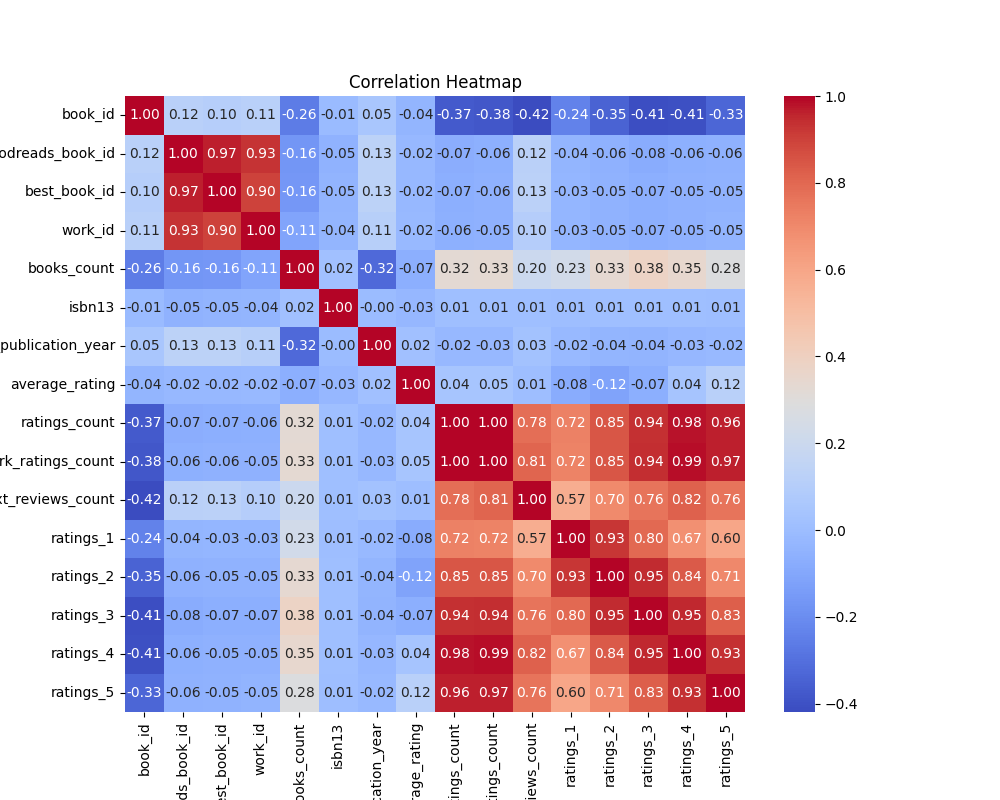
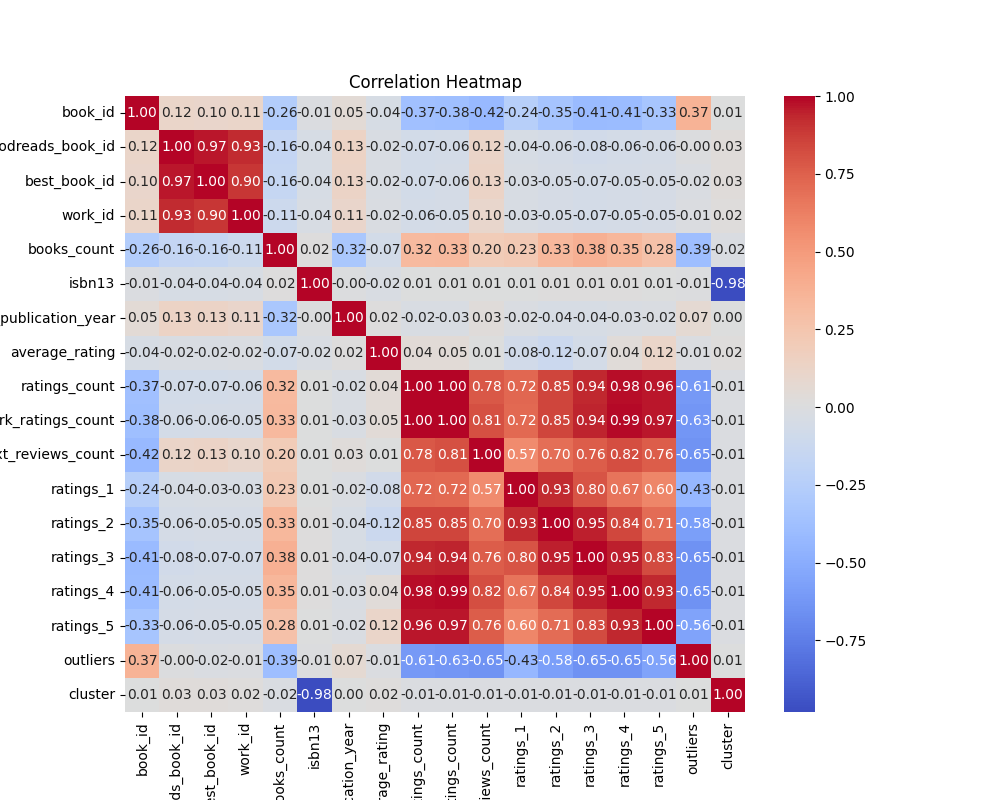
included more analysis

diff --git a/autolysis.py b/autolysis.py
@@ -11,6 +11,8 @@
 #   "dotenv",
 #   "requests",
 #   "chardet",
+#   "sklearn",
+#   "statsmodels"
 # ]
 # ///
 import os
@@ -23,6 +25,12 @@ import openai
 from dotenv import load_dotenv
 import requests
 import chardet
+from sklearn.ensemble import IsolationForest
+from sklearn.cluster import KMeans
+from statsmodels.tsa.seasonal import seasonal_decompose
+from sklearn.decomposition import PCA
+from sklearn.impute import SimpleImputer
+from sklearn.cluster import KMeans
 
 def load_data(file_path):
     try:
@@ -68,6 +76,30 @@ def select_best_columns(data, target=None, max_columns=3):
 
     return selected_columns
 
+def detect_outliers(data):
+    isolation_forest = IsolationForest(contamination=0.05)
+    data['outliers'] = isolation_forest.fit_predict(data.select_dtypes(include=[float, int]))
+    outliers = data[data['outliers'] == -1]
+    return outliers
+
+def perform_clustering(data):
+    kmeans = KMeans(n_clusters=3, random_state=42)
+    data['cluster'] = kmeans.fit_predict(data.select_dtypes(include=[float, int]))
+    cluster_summary_text = (
+    f"Cluster 0: {len(data[data['cluster'] == 0])} points, centered at {kmeans.cluster_centers_[0]}.\n"
+    f"Cluster 1: {len(data[data['cluster'] == 1])} points, centered at {kmeans.cluster_centers_[1]}."
+    )
+    return cluster_summary_text
+
+def perform_timeseries(data):
+    decomposition = seasonal_decompose(data['time_series_column'], model='additive', period=12)
+    decomposition.plot()
+
+def perform_pca(data):
+    pca = PCA(n_components=2)
+    pca_result = pca.fit_transform(data.select_dtypes(include=[float, int]))
+    return pca
+    
 def generate_correlation_heatmap(data, output_path):
     numeric_data = data.select_dtypes(include=[np.number])
     correlation_matrix = numeric_data.corr()
@@ -76,6 +108,7 @@ def generate_correlation_heatmap(data, output_path):
     plt.title("Correlation Heatmap")
     plt.savefig(output_path)
     plt.close()
+    return correlation_matrix
 
 def generate_distribution_plots(data, folder_path, selected_columns):
     """
@@ -159,9 +192,45 @@ def main():
 
     file_path = sys.argv[1]#'goodreads.csv' #sys.argv[1]
     data = load_data(file_path)
+    #data_cleaned = data.dropna()
+    # Separate numeric and categorical columns
+    numeric_data = data.select_dtypes(include=[np.number])
+    categorical_data = data.select_dtypes(exclude=[np.number])
 
+    # Impute numeric data with the mean
+    numeric_imputer = SimpleImputer(strategy='mean')
+    numeric_data_imputed = pd.DataFrame(numeric_imputer.fit_transform(numeric_data), 
+                                        columns=numeric_data.columns)
+
+    # Impute categorical data with the most frequent value
+    categorical_imputer = SimpleImputer(strategy='most_frequent')
+    categorical_data_imputed = pd.DataFrame(categorical_imputer.fit_transform(categorical_data), 
+                                            columns=categorical_data.columns)
+
+    # Combine the data back together
+    data_imputed = pd.concat([numeric_data_imputed, categorical_data_imputed], axis=1)
+    
     print("Performing basic analysis...")
-    summary = basic_analysis(data)
+    summary = basic_analysis(data_imputed)
+    
+    print("Performing outliers and anomaly detection...")
+    outliers = detect_outliers(data_imputed)
+    num_outliers = len(outliers)
+    outlier_summary = f"Detected {num_outliers} outliers in dataset. These include values such as {outliers.iloc[:,0].tolist()}."
+    
+    print("Performing clustering to identify patterns...")
+    cluster_summary_text = perform_clustering(data_imputed)
+    
+    
+    print("Performing PCA analysis...")
+    pca_results = perform_pca(data_imputed)
+    # Explained variance
+    explained_variance = pca_results.explained_variance_ratio_
+    pca_summary = (
+    f"PCA reduced the data to 2 components explaining {sum(explained_variance):.2f} of the variance.\n"
+    f"Component 1: explains {explained_variance[0]:.2f} of the variance.\n"
+    f"Component 2: explains {explained_variance[1]:.2f} of the variance."
+)
     
     # Create a folder named after the dataset (without extension)
     dataset_name = os.path.splitext(os.path.basename(file_path))[0]
@@ -170,21 +239,40 @@ def main():
     
     print("Selecting the best columns for visualization...")
     target_column = None  # Replace with the target column name if applicable
-    best_columns = select_best_columns(data, target=target_column, max_columns=3)
+    best_columns = select_best_columns(data_imputed, target=target_column, max_columns=3)
     
     print("Generating visualizations...")
     heatmap_path = os.path.join(charts_folder, "correlation_heatmap.png")
-    generate_correlation_heatmap(data, heatmap_path)
-    generate_distribution_plots(data, charts_folder, best_columns)
+    correlation_matrix = generate_correlation_heatmap(data_imputed, heatmap_path)
+    correlations = correlation_matrix.unstack().reset_index()
+    correlations.columns = ['Variable1', 'Variable2', 'Correlation']
+    correlations = correlations[correlations['Variable1'] != correlations['Variable2']]  # Remove self-correlations
+    correlations['AbsCorrelation'] = correlations['Correlation'].abs()
+    top_correlations = correlations.sort_values(by='AbsCorrelation', ascending=False).head(3)
+
+    # Convert to a readable summary
+    corr_summary = [
+        f"Correlation between {row['Variable1']} and {row['Variable2']} is {row['Correlation']:.2f}"
+        for _, row in top_correlations.iterrows()
+    ]
+    corr_summary_text = "\n".join(corr_summary)
+    
+    generate_distribution_plots(data_imputed, charts_folder, best_columns)
 
     print("Consulting the LLM for insights...")
     llm_prompt = (
-        f"You are a data analyst. Summarize the insights from this dataset:\n"
-            f"Filename: {file_path}\n"
-            f"Columns and Data Types: {summary['columns']}\n"           
-            f"Sample data:{data.iloc[0]}\\n"
-            f"Summary statistics: {summary['summary_statistics']}\n"
+        f"You are a data analyst. Based on the following dataset analysis (summary statistics, correlations, clustering results), provide actionable insights and suggest what these insights might imply for a research application.\\n"
+        f"Filename: {file_path}\\n"
+        f"Columns and Data Types: {summary['columns']}\\n"           
+        f"Sample data:{data.iloc[0]}\\n"
+        f"Summary statistics: {summary['summary_statistics']}\\n"
+        f"Correlation:{corr_summary_text}. Do you have any suggestions for further analysis or insights based on these correlations? \\n"
+        f"Outliers:{outliers}. What insights can be derived from this? Could these be errors, anomalies, or opportunities? Suggest actions or further analyses? \\n"
+        f"Clusters:{cluster_summary_text}. What insights can be derived from these clusters? How should we interpret the differences between them? Are there actionable opportunities or risks?\\n"
+        f"PCA:{pca_summary}. What can be inferred from the variance distribution? Are there hidden patterns in the data we should explore further?\\n"
+            
     )
+    print(llm_prompt)
     llm_insights = query_llm(llm_prompt)
 
     print("Generating README.md...")

diff --git a/goodreads/README.md b/goodreads/README.md
@@ -4,27 +4,27 @@
 Shape: (10000, 23)
 
 ### Columns and Data Types
-- book_id: int64
-- goodreads_book_id: int64
-- best_book_id: int64
-- work_id: int64
-- books_count: int64
-- isbn: object
+- book_id: float64
+- goodreads_book_id: float64
+- best_book_id: float64
+- work_id: float64
+- books_count: float64
 - isbn13: float64
-- authors: object
 - original_publication_year: float64
+- average_rating: float64
+- ratings_count: float64
+- work_ratings_count: float64
+- work_text_reviews_count: float64
+- ratings_1: float64
+- ratings_2: float64
+- ratings_3: float64
+- ratings_4: float64
+- ratings_5: float64
+- isbn: object
+- authors: object
 - original_title: object
 - title: object
 - language_code: object
-- average_rating: float64
-- ratings_count: int64
-- work_ratings_count: int64
-- work_text_reviews_count: int64
-- ratings_1: int64
-- ratings_2: int64
-- ratings_3: int64
-- ratings_4: int64
-- ratings_5: int64
 - image_url: object
 - small_image_url: object
 
@@ -34,13 +34,8 @@ Shape: (10000, 23)
 - best_book_id: 0 missing values
 - work_id: 0 missing values
 - books_count: 0 missing values
-- isbn: 700 missing values
-- isbn13: 585 missing values
-- authors: 0 missing values
-- original_publication_year: 21 missing values
-- original_title: 585 missing values
-- title: 0 missing values
-- language_code: 1084 missing values
+- isbn13: 0 missing values
+- original_publication_year: 0 missing values
 - average_rating: 0 missing values
 - ratings_count: 0 missing values
 - work_ratings_count: 0 missing values
@@ -50,42 +45,53 @@ Shape: (10000, 23)
 - ratings_3: 0 missing values
 - ratings_4: 0 missing values
 - ratings_5: 0 missing values
+- isbn: 0 missing values
+- authors: 0 missing values
+- original_title: 0 missing values
+- title: 0 missing values
+- language_code: 0 missing values
 - image_url: 0 missing values
 - small_image_url: 0 missing values
 
 ## Insights from the LLM
-Here is a summary of insights from the `goodreads.csv` dataset:
+### Actionable Insights and Implications for Research Applications
 
-### General Overview:
-- The dataset contains information on 10,000 books from Goodreads.
-- Key columns include identifiers, metadata about books, authors, publication year, language, ratings, and counts of reviews.
+#### 1. Summary Statistics:
+- **High Average Ratings**: The mean average rating (4.00) and its small standard deviation (0.25) suggest that most books in the dataset are well-received by readers. 
+  - **Implication**: For a research application, this could indicate a need for analysis on factors that contribute to high ratings. This could be valuable for publishers and authors to understand what characteristics enhance reader satisfaction.
 
-### Key Statistics:
-- **Books Count**: On average, each entry corresponds to approximately 75.71 books, with the maximum being 3455. 
-- **Authors**: There are 4664 unique authors, with Stephen King being the most frequently mentioned (60 times).
-- **Publication Year**: The average original publication year is approximately 1982, with entries spanning from as early as 1750 to 2017.
+- **Publication Year Range**: The original publication year ranges from -1750 to 2017 with a mean of 1982. 
+  - **Implication**: There may be a long tail of older publications that impact present-day ratings. Researchers could focus on how time affects book popularity and reader engagement over decades.
 
-### Rating Insights:
-- **Average Rating**: The average rating for the books is 4.00, with a standard deviation of approximately 0.25, indicating good overall reception among the books.
-- **Ratings Count**: Books vary widely in their total number of ratings. The maximum is 4,780,653 with a mean of approximately 54,001 ratings.
-- **Distribution of Ratings**: 
-  - 5-Star Ratings: Mean count of about 23,790.
-  - 4-Star Ratings: Mean count of about 19,966.
-  - 1-Star Ratings: Mean count of about 1,345.
-  - Most books receive a significant majority of higher ratings, illustrating a generally favorable perception.
+#### 2. Correlations:
+- **Perfect Correlation**: The perfect correlation between `ratings_count` and `work_ratings_count` (both 1.00) suggests that these two variables are essentially measuring the same concept.
+  - **Implication**: For practical purposes, only one of these metrics is necessary for analysis; this can simplify further modeling or reporting.
 
-### Language Distribution:
-- **Language Codes**: The dataset shows entries primarily in English ('eng') which accounts for 6341 entries, and a total of 25 unique language codes present.
+- **High Correlation with Specific Ratings**: The high correlation between `ratings_4` and `work_ratings_count` implies that books with a lot of strong ratings are also getting many overall ratings.
+  - **Actionable Insight**: Focus on books that receive a higher number of ratings, particularly 4 or below, to investigate what is lacking in user satisfaction, which might lead to enhancements in marketing or content strategies.
 
-### Publication and ISBN Information:
-- **ISBN Information**: Out of the total entries, 9,300 books have a valid ISBN (ISBN-10), and 9,415 have an ISBN-13.
-- **ISBN-13**: The numeric values have a mean around 9.75 trillion, reflecting the use of the ISBN-13 standard.
+#### 3. Clustering Results:
+- **Two Distinct Clusters**: The dense cluster (Cluster 0 with 9967 points) and the small cluster (Cluster 1 with only 24 points) may indicate a small number of books that are outliers in terms of audience engagement or ratings.
+  - **Implication**: Cluster 1 may contain niche or specialized literature that captures a unique audience, suggesting potential for targeted marketing strategies or further investigation to uncover the content nature of these books.
+  - **Actionable Insight**: Explore the characteristics that differentiate Cluster 1 books (e.g., genre, author styles, themes) to tailor recommendations or develop similar content that could appeal to specific reader segments.
 
-### Visual Representations:
-- **Cover Images**: There are 6,669 unique cover images, with many books sharing the same image URL, indicating multiple editions or formats of certain titles.
+#### 4. Outlier Analysis:
+- **Possible Outliers Indicated**: The presence of outliers amongst books can suggest both errors and true anomalies.
+  - **Implication**: Some books may be misclassified, or they may reflect a significant divergence in popularity (such as cult books or forgotten literature).
+  - **Actionable Insight**: Conduct further qualitative analysis on highly-rated or critically panned books to determine if anomalies are due to errors or unique factors that could inform new publishing strategies.
 
-### Conclusion:
-This dataset provides a rich source of information for analysis regarding the popularity, distribution, and characteristics of books on Goodreads. The analysis can be further expanded to explore trends in ratings over time, correlations between the number of ratings and the average ratings, or the influence of different authors and their works. Additionally, insights into reader preferences based on language and publication year can enhance understanding of the literary market.
+#### 5. PCA Insights:
+- **Variance Distribution**: The PCA has reduced the dimensionality of the dataset to two components where the first accounts for 100% of the variance, indicating potential redundancy in the dataset.
+  - **Implication**: There might be underlying patterns that can be further investigated. If nearly all variance can be explained by one component, consider delving into the individual features that contribute to this component to understand its drivers.
+  - **Research Direction**: Conduct deeper analysis into the attributes contributing to the first principal component to uncover hidden factors or insights influencing ratings and reader engagement.
+
+### Next Steps:
+1. **Deep Dives on High-Rated Books**: Identify characteristics of books in the upper quantiles of ratings for lessons applicable to new releases.
+2. **Segment Development**: Create user personas based on clusters to develop content that aligns with specific target demographics.
+3. **Error Checking and Validation**: Analyze outliers for potential data entry errors or verify if they represent true anomalies worth investigating.
+4. **Qualitative Analysis**: Conduct reader surveys or focus groups based on findings to correlate quantitative results with reader preferences and feedback.
+
+These insights can help refine marketing strategies, improve reader engagement, and enhance the overall quality of forthcoming publications.
 
 ## Visualizations
 ![goodreads\correlation_heatmap.png](goodreads\correlation_heatmap.png)
